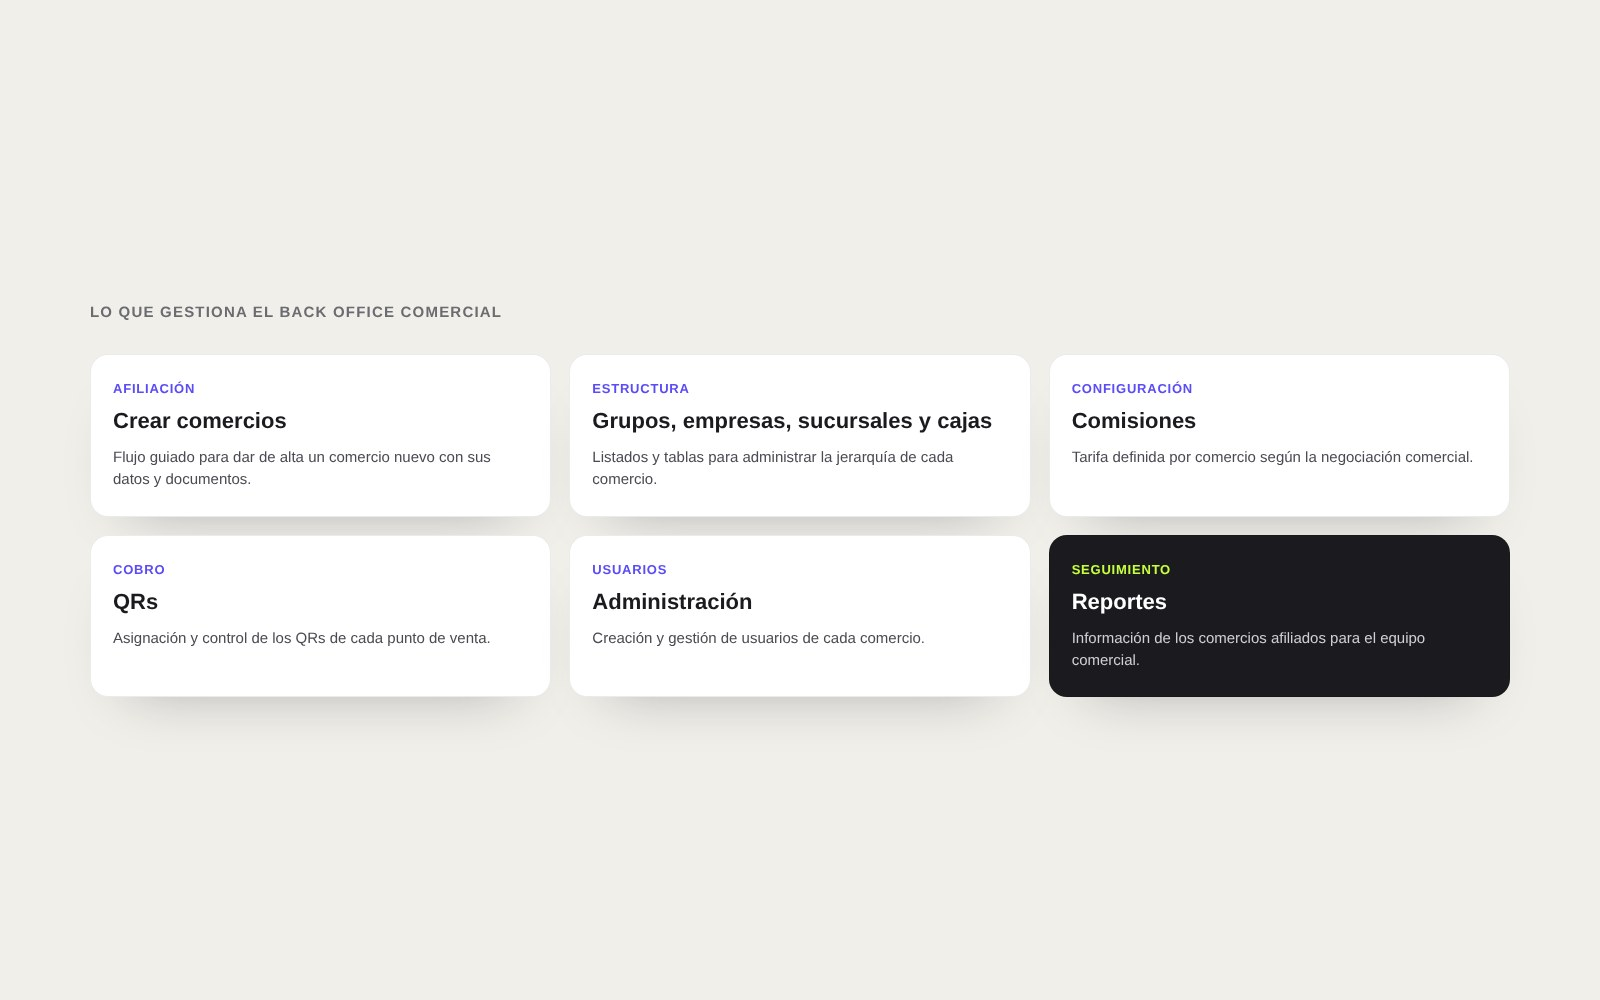
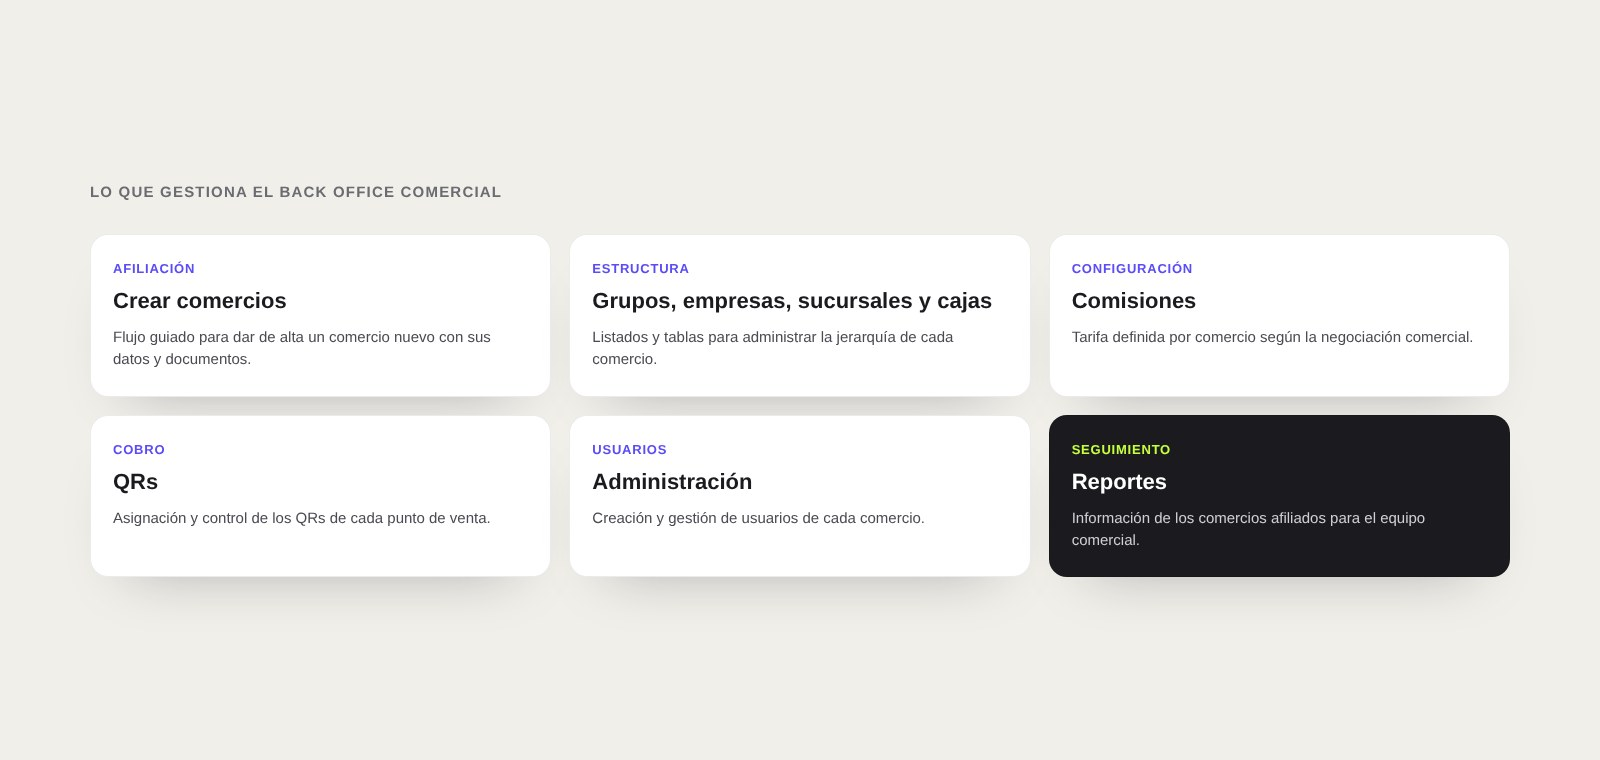
Diagramas del Back Office más compactos
Claude-Session: https://claude.ai/code/session_01SjdUSnEmrsDHs6a67wVW6Q

diff --git a/index.html b/index.html
@@ -509,7 +509,7 @@ const CASES = [
   tags:["Herramienta interna","B2B","Flujos"], year:"2024–2026", status:"En producción",
   meta:[["Rol","Senior Product Designer"],["Empresa","Neoris para Deuna (Ecuador)"],["Usuarios","Asesores comerciales"],["Plataforma","Web interna"]],
   summary:[["El problema","La fuerza de ventas necesitaba afiliar comercios y dejarlos listos para cobrar: datos, documentos, sucursales, comisiones y QRs, todo en un solo lugar."],["Qué hice","Diseñé el proceso de afiliación de punta a punta y las vistas para administrar comercios, sucursales, cajas, QRs, comisiones y reportes."],["Resultado","Alrededor de 10.000 comercios afiliados y gestionados desde la plataforma."]],
-  cover:img("backoffice/flujo","Proceso de afiliación de un comercio","1600×1000",{free:true}),
+  cover:img("backoffice/flujo","Proceso de afiliación de un comercio","1600×620",{free:true}),
   chapters:[
     {h:"Contexto", blocks:[
       {p:"Cada comercio que cobra con Deuna entra por el back office. Los asesores comerciales, la fuerza de ventas de Deuna, consiguen el comercio y lo afilian desde ahí: lo crean, cargan sus documentos, arman su estructura de sucursales y cajas, definen la comisión, asignan QRs y lo siguen en reportes."}]},
@@ -521,7 +521,7 @@ const CASES = [
       {finding:["Comisiones y QRs se configuraban por comercio y un error se notaba solo cuando el comercio ya cobraba.","Configuración de comisión y asignación de QRs como pasos explícitos de la afiliación, antes de activar."]}]},
     {h:"El flujo de afiliación", blocks:[
       {p:"Del primer contacto al comercio listo para cobrar, en cinco pasos."},
-      {fig:img("backoffice/flujo","Proceso de afiliación de un comercio","1600×1000",{free:true})}]},
+      {fig:img("backoffice/flujo","Proceso de afiliación de un comercio","1600×620",{free:true})}]},
     {h:"Qué gestiona la plataforma", blocks:[
       {fig:img("backoffice/modulos","Módulos del back office comercial","1600×1000",{free:true})}]},
   ],
